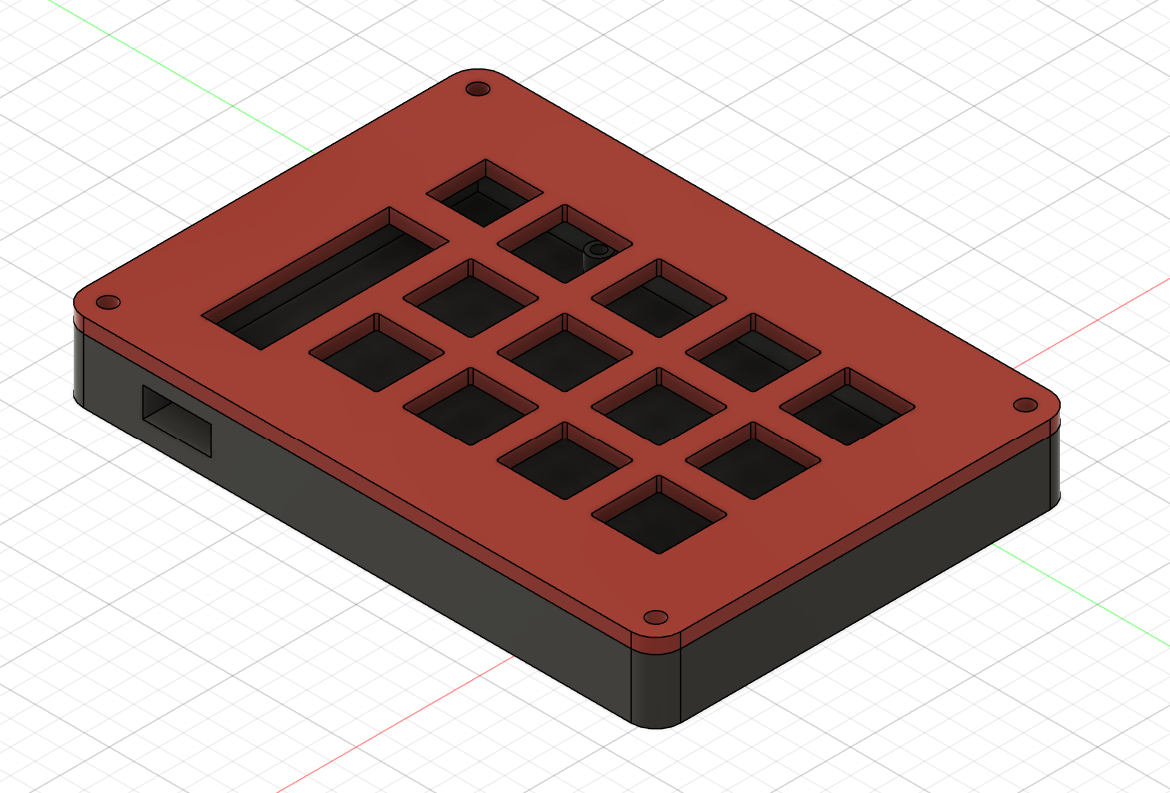
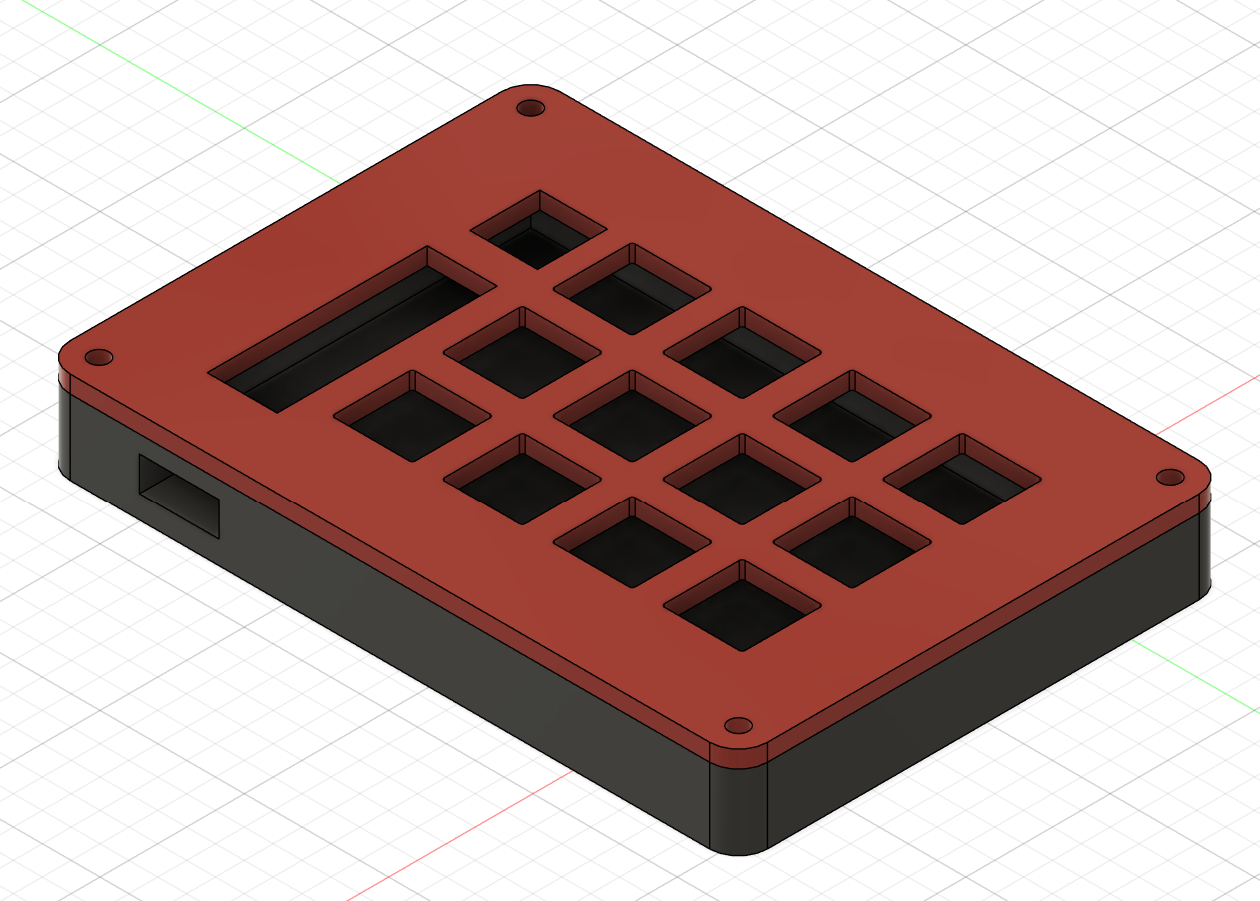
Fixed pathways of images in README

diff --git a/README.md b/README.md
@@ -34,11 +34,12 @@ BOM (Bill of Materials):
 * 4x M3×5×4mm heatset inserts
 
 
-![Model](image.png) This is a model of the casing I made in Autodesk Fusion, I have not got the hardware yet so I cannot upload a picture of that
+![Model](Images/image.png) This is a model of the casing I made in Autodesk Fusion, I have not got the hardware yet so I cannot upload a picture of that
 
 
 ![Schematic](Images/image-2.png) Here is a screenshot of my schematic, I made it using KiCad.
 
 
 ![PCB](Images/image-1.png) 
+
 Here is a screenshot of my PCB design, I made it using KiCad. You can access a demo of this at https://kicanvas.org/?repo=https%3A%2F%2Fgithub.com%2FNauticos%2FDaedapad%2Fblob%2Fmain%2FPCB%2Fhackpad.kicad_pcb.